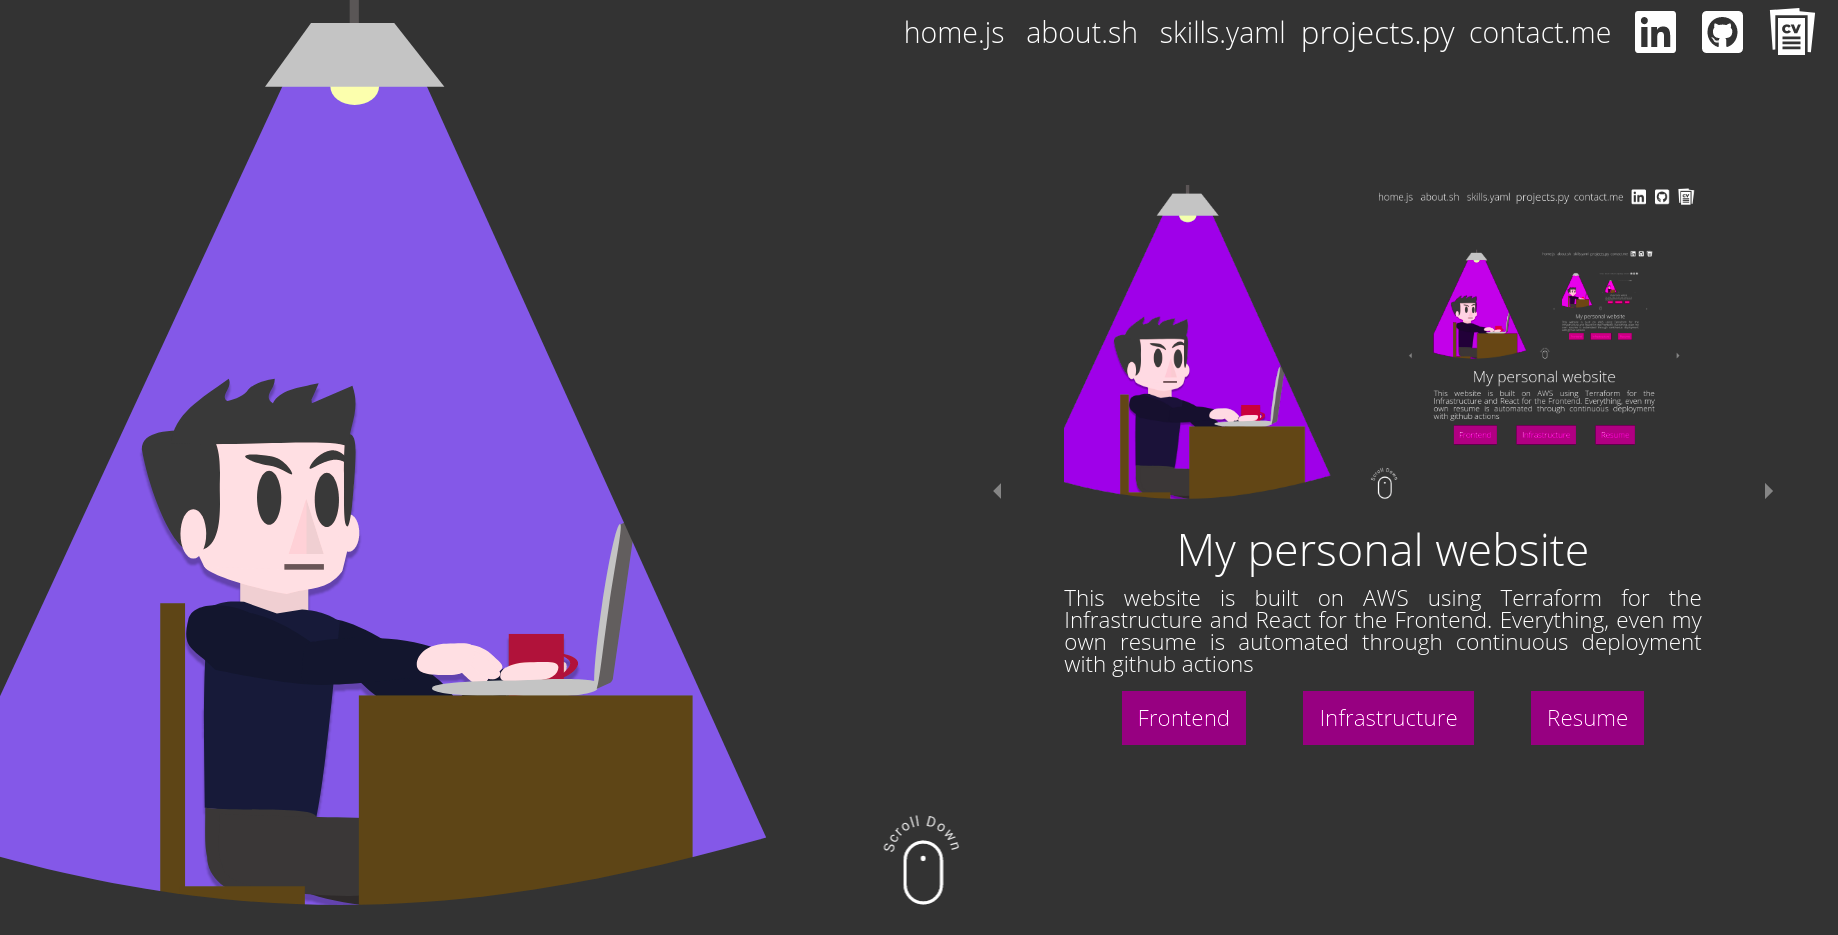
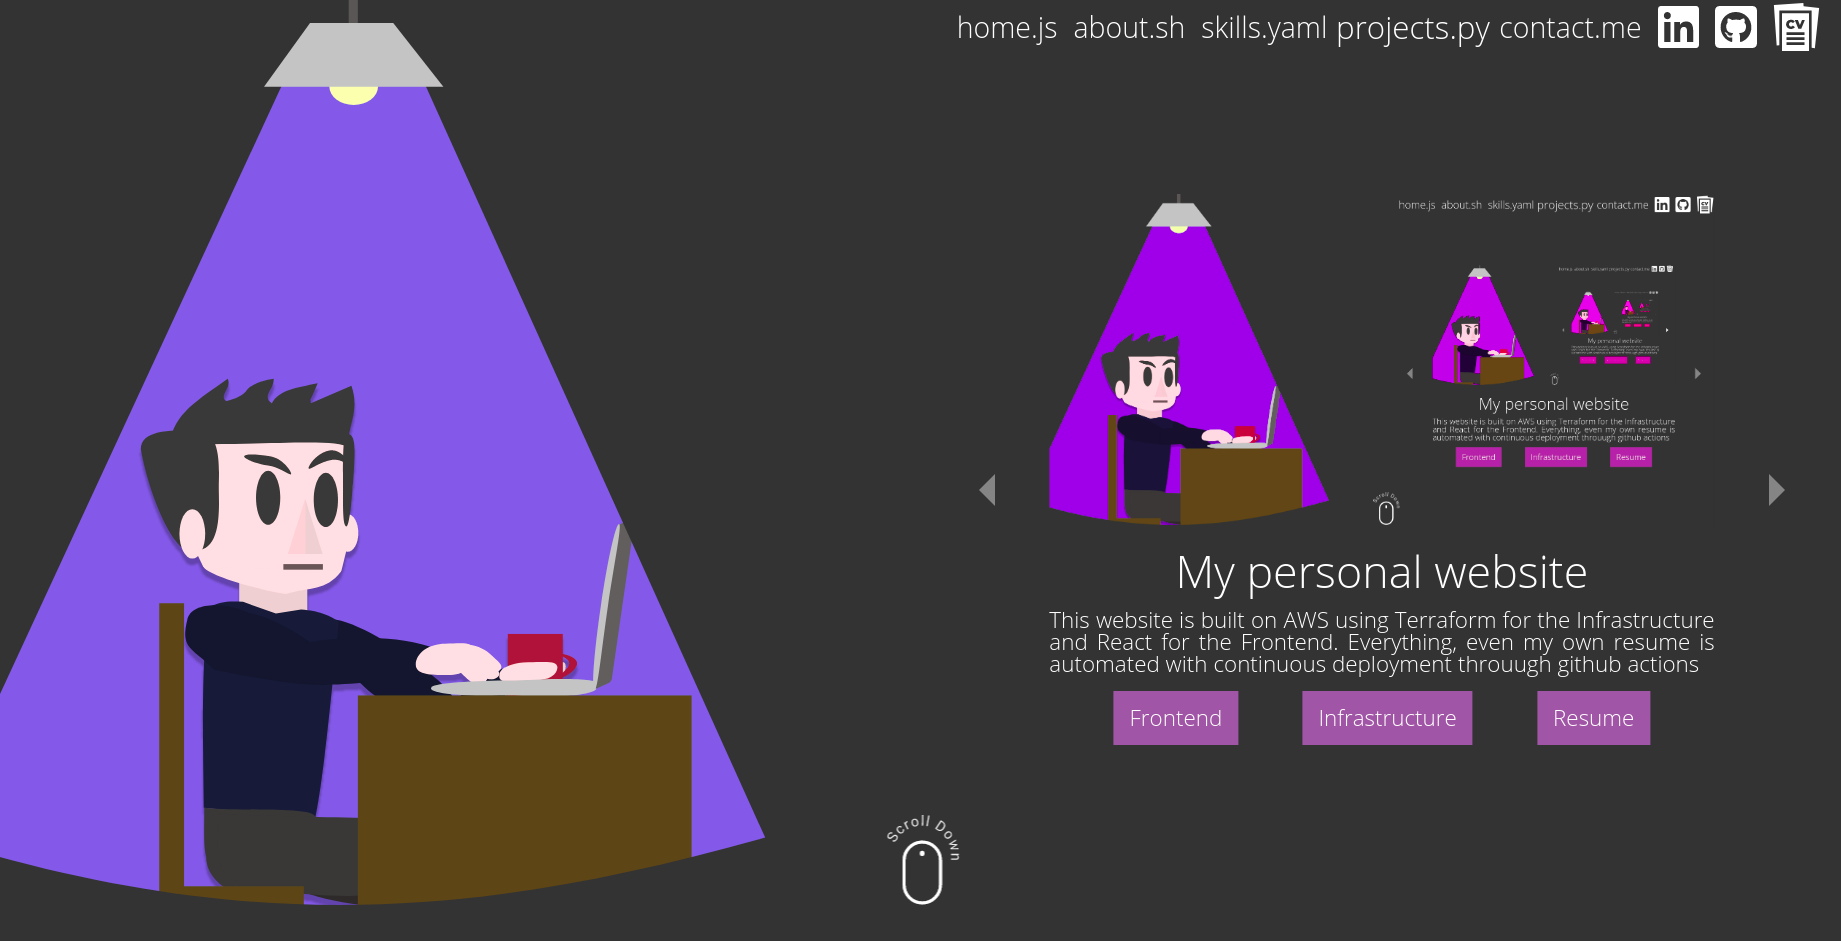
prepare last details

diff --git a/src/index.js b/src/index.js
@@ -12,26 +12,37 @@ import Projects from './pages/projects/projects';
 
 export default function App() {
   let scrollTimer = useRef(null)
-  const [scroll,setScroll] = useState(false)
-  const [lastSection,setLastSection] =useState(false)
+  let lastSection = useRef(false)
   const [active,setActive]=useState(undefined)
   const startScrollDelay=1000
   const reappearScrollDelay=2000
+  const scrollLottieRef=useRef(null);
+  console.log(scrollLottieRef)
+  const scrollTimeout=() => {
+    console.log(lastSection.current)
+    if(!lastSection.current){
+      if(scrollLottieRef.current){
+        console.log("reproduciendo pero ",lastSection)
+        scrollLottieRef.current.play();
+      }else
+        setTimeout(scrollTimeout,startScrollDelay)
+
+    }
+    
+  }
   const handleScroll=(event)=>{
     
     if(scrollTimer.current){
       clearTimeout(scrollTimer.current)
-      setScroll(false)
+      if(scrollLottieRef.current){
+        scrollLottieRef.current.stop();
+      }
     }
-    scrollTimer.current = setTimeout(() => {
-      setScroll(true)
-    }, startScrollDelay);
+    scrollTimer.current = setTimeout(scrollTimeout,startScrollDelay);
   }
   useEffect(() => {
     window.addEventListener('scroll',handleScroll,true)
-    scrollTimer.current = setTimeout(() => {
-      setScroll(true)
-    }, reappearScrollDelay);
+    scrollTimer.current = setTimeout(scrollTimeout,reappearScrollDelay);
     return () =>{
       window.removeEventListener('scroll', handleScroll);
     }
@@ -78,9 +89,9 @@ export default function App() {
           setActive(active)
           if(active===navbarSections.slice(-1)[0].id){
             console.log("last section")
-            setLastSection(true)
+            lastSection.current=true
           }else{
-            setLastSection(false)
+            lastSection.current=false
             console.log("not last section",active)
           }
         }}/>
@@ -94,10 +105,11 @@ export default function App() {
         
         <div className="scroll-animation">
           <Lottie          
+            ref={scrollLottieRef}
             options={optionsScroll}
             width="100%"
             height="100%"
-            isStopped={lastSection||!scroll}
+            isStopped="true"
           />
         </div>
 

diff --git a/src/pages/skills/skills.js b/src/pages/skills/skills.js
@@ -5,15 +5,51 @@ import SkillWidget from '../../components/SkillWidget/skill-widget';
 const Skills=(props)=>{
     const skillsMock=[];
     skillsMock.push({
+      title: 'AWS',
+      image: 'https://lavca.org/wp-content/uploads/2019/10/aws-logo-square.png'
+    })
+    skillsMock.push({
+      title: 'Terraform',
+      image: 'https://www.terraform.io/assets/images/og-image-8b3e4f7d.png'
+    })
+    skillsMock.push({
+      title: 'Kubernetes',
+      image: 'https://upload.wikimedia.org/wikipedia/commons/thumb/3/39/Kubernetes_logo_without_workmark.svg/617px-Kubernetes_logo_without_workmark.svg.png'
+    })
+    skillsMock.push({
+      title: 'Docker',
+      image: 'https://avatars.githubusercontent.com/u/7739233?s=200&v=4'
+    })
+    skillsMock.push({
+      title: 'Python',
+      image: 'https://upload.wikimedia.org/wikipedia/commons/thumb/c/c3/Python-logo-notext.svg/768px-Python-logo-notext.svg.png'
+    })
+    skillsMock.push({
+      title: 'React.js',
+      image: 'https://upload.wikimedia.org/wikipedia/commons/thumb/a/a7/React-icon.svg/500px-React-icon.svg.png'
+    })
+    skillsMock.push({
+      title: 'Android',
+      image: 'https://cdn.icon-icons.com/icons2/2044/PNG/512/android_logo_icon_124318.png'
+    })
+    skillsMock.push({
+      title: 'GitHub',
+      image: 'https://github.githubassets.com/images/modules/logos_page/GitHub-Mark.png'
+    })
+    skillsMock.push({
+      title: 'Jenkins',
+      image: 'https://www.jenkins.io/images/logos/pixelart/jenkins-pixelart-256.png'
+    })
+    
+    skillsMock.push({
       title: 'Grafana',
       image: 'https://codigo200.files.wordpress.com/2017/11/grafana-logo-300x300.jpg'
     })
-    for(let i=0;i<11;i++){
-      skillsMock.push({
-        title: 'React.js',
-        image: 'https://upload.wikimedia.org/wikipedia/commons/thumb/a/a7/React-icon.svg/500px-React-icon.svg.png'
-      })
-    }
+    
+    
+    
+    
+    
     return (
         <section id={props.id} className="skills-section" >
          

diff --git a/src/pages/home/home.js b/src/pages/home/home.js
@@ -1,11 +1,34 @@
 import React from 'react'
-import Typist from 'react-typist';
 import FloatingPolaroid from '../../components/FloatingPolaroid/floating-polaroid.js'
 import face from '../../res/face.jpeg';
 import './home.scss';
+import Typewriter from 'typewriter-effect/dist/core';
 
 const homepage=(props)=>{
-  
+  var app = document.getElementById('typewriter');
+ 
+  var typewriter = new Typewriter(app, {
+    loop: true,
+    cursor:"I",
+    delay: 50,
+    deleteSpeed: 25
+  });
+  const coolPhrases=[
+    "solve problems",
+    "write code",
+    "design infraestructure",
+    "achieve solutions",
+    "manage systems",
+    "build pipelines"
+  ]
+  coolPhrases.forEach((phrase)=>{
+    typewriter
+      .pauseFor(1000)
+      .typeString(phrase+";")
+      .pauseFor(500)
+      .deleteChars(phrase.length+1)
+  })
+  typewriter.start();
     
     return(
         <section id={props.id} className="home-section" style={{height:props.sectionHeight}}>
@@ -17,17 +40,8 @@ const homepage=(props)=>{
             <h2 className="description">I am a Software Engineer specialized on DevOps and Cloud architectures.</h2>
               
             
-            <div className="cooltext">
-              <Typist cursor={{
-                hideWhenDone:true,
-                element: 'I',
-                blink: true
-              }}>
-                I solve problems;
-              </Typist>
-            </div>
+            <div className="cooltext">I <span id="typewriter"/></div>
           </div>
-          
         </section>
     )
 }

diff --git a/src/components/SkillWidget/skill-widget.js b/src/components/SkillWidget/skill-widget.js
@@ -13,11 +13,23 @@ const Skill = ({title,image,delay,isVisible})=>{
 }
 
 const SkillWidget = ({skills,marginWidth,isVisible})=>{
+    const finalSkills=[]
+
+    skills.forEach((skill,i,array)=>{
+        console.log(i,skill)
+        if(i<array.length/2){
+            finalSkills[2*i]=skill
+        }else{
+            finalSkills[2*(i-array.length/2)+1]=skill
+        }
+    }
+    )
     return <div className="skill-widget">
         <div style={{width:marginWidth}}></div>
         <div style={{width:marginWidth}}></div>
         {        
-            skills.map((skill,i)=>{
+            finalSkills.map((skill,i)=>{
+                console.log(i,skill)
                 return <Skill title={skill.title} image={skill.image} delay={0.1*(i/2)} isVisible={isVisible}/>;
             })
         }

diff --git a/src/components/ContactForm/contact-form.scss b/src/components/ContactForm/contact-form.scss
@@ -12,9 +12,9 @@ form {
   border-radius: 6px;
   overflow: hidden;
   h2 {
-    font-weight: 600;
+    font-weight: 500;
     font-size: 5em;
-    color: rgb(53, 53, 53);
+    color: rgb(68, 68, 68);
     @media (max-width: 800px) {
       font-size: 2.8em;
     }
@@ -51,7 +51,7 @@ form {
     justify-content: space-evenly;
     width: 100%;
     @media (max-width: 800px) {
-      font-size: 1em;
+      font-size: 0.9em;
       margin-top: 10px;
     }
     font-size: 2em;
@@ -59,6 +59,7 @@ form {
       padding: 8px 16px;
       color:white;
       border-radius: 6px;
+      white-space: nowrap;
     }
     a.linkedin-button{
       background-color:  #0e76a8 ;

diff --git a/src/pages/home/home.scss b/src/pages/home/home.scss
@@ -70,18 +70,11 @@
   }
   .cooltext {
     grid-area: cooltext;
+    background-color: rgb(31, 32, 32);
     color: white;
     justify-content: center;
-    align-self: center;
-    div {
-      width: fit-content;
-      background-color: rgb(31, 32, 32);
-      span {
-        
-        font-size: inherit;
-        font-weight: inherit;
-      }
-    }
+    align-self: center;  
+    
     @include small{
         align-self: start;
     }

diff --git a/src/components/HangingSign/hanging-sign.scss b/src/components/HangingSign/hanging-sign.scss
@@ -288,6 +288,8 @@
     transform: translateY(0);
     -webkit-animation-timing-function: ease-out;
     animation-timing-function: ease-out;
+    opacity: 1;
+
   }
 }
 @keyframes bounce-in-top {
@@ -340,5 +342,6 @@
     transform: translateY(0);
     -webkit-animation-timing-function: ease-out;
     animation-timing-function: ease-out;
+    opacity: 1;
   }
 }

diff --git a/src/components/ProjectsWidget/projects-widget.scss b/src/components/ProjectsWidget/projects-widget.scss
@@ -35,7 +35,7 @@
     display: flex;
     justify-content: space-evenly;
     a {
-        background-color: purple;
+        background-color: #926AA6;
         padding: 16px;
         cursor: pointer;
     }
